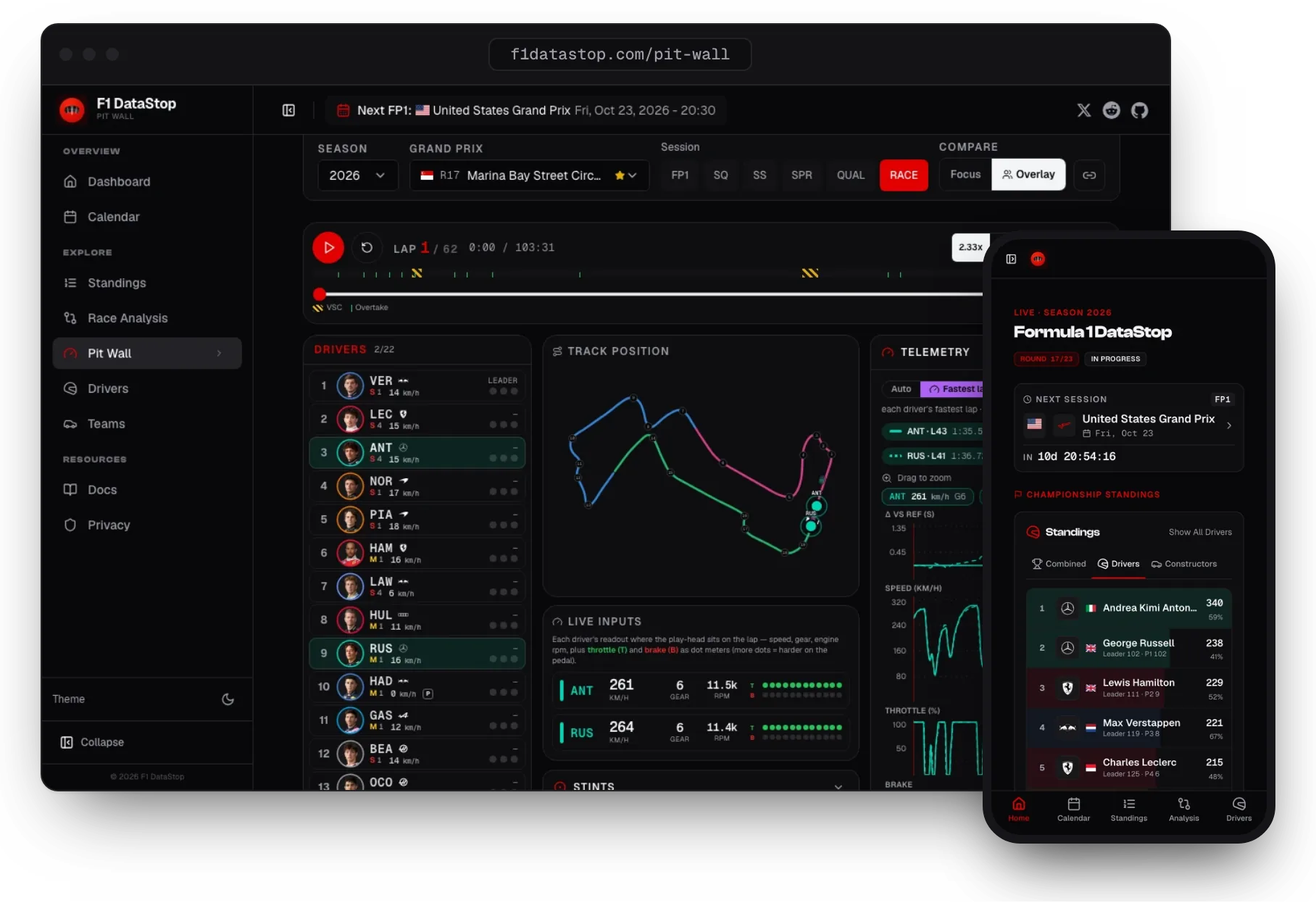
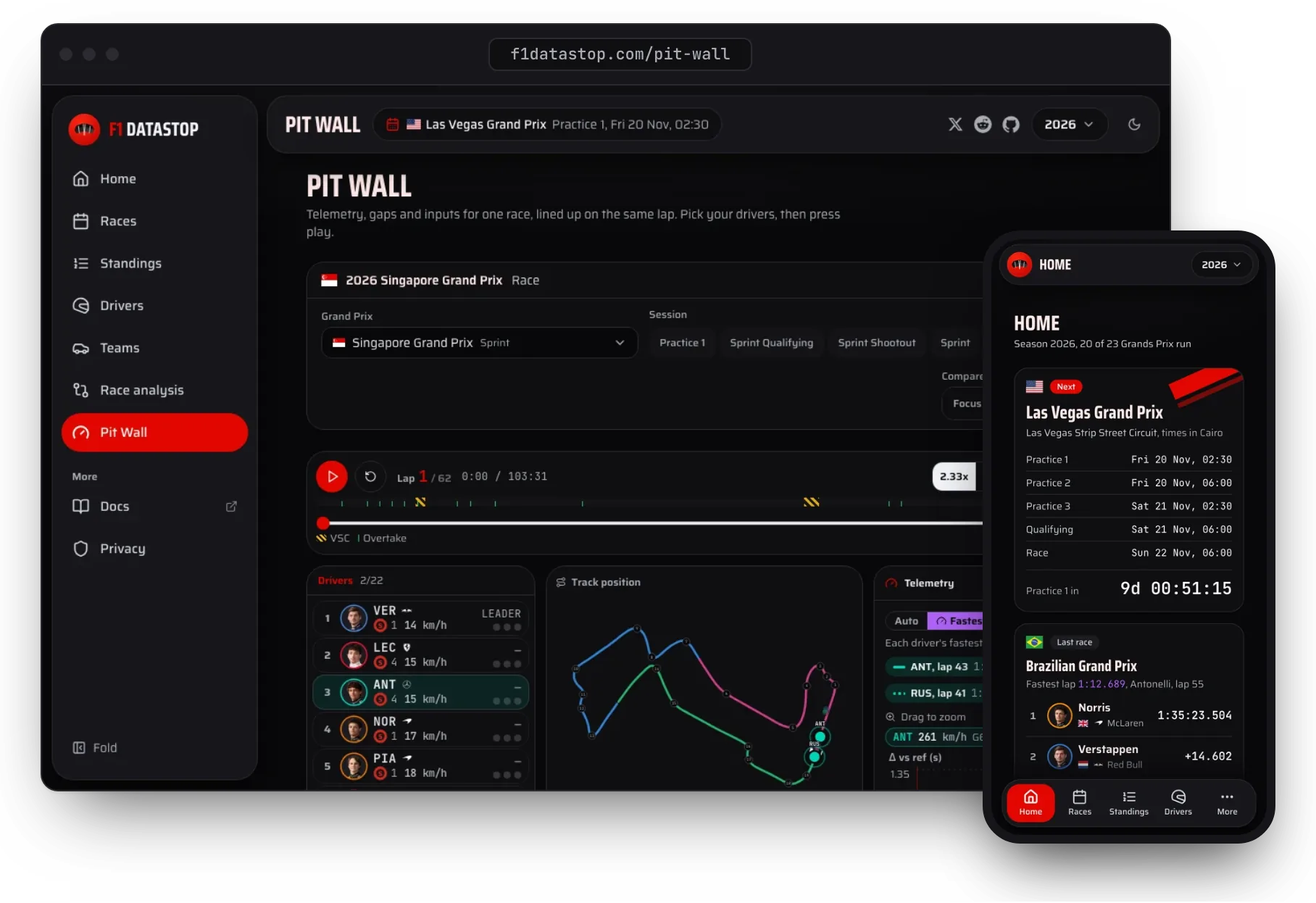
feat(docs): share images, social preview and README hero from the new design
Phase 7 of the design release (docs/design/decisions.md D41): fresh captures
of the Pit Wall and Home render the share card, the GitHub social preview and
the README hero in the new fonts; the badge drops its middle dot; the README
feature list follows the new pages.

diff --git a/docs/design/f1datastop-design-board.html b/docs/design/f1datastop-design-board.html
@@ -435,7 +435,7 @@ h2{font-size:24px;font-weight:700;letter-spacing:-.01em;margin-top:56px}
 <li>Type: keep the direction's pairing, or bring it to a specimen of three like Mondar's.</li>
 </ol>
 </div>
-<div class="panel"><h3>Decisions so far</h3><div class="scroll-x"><table class="dec"><tr><th>D1</th><td><b>Process, copied from Mondar 0.2.</b> Audit first, then a concepts board, then key screens, then the build in phases (tokens and shell, components, charts, pages, brand assets), one PR each. The board is generated from source and never edited by hand. The owner picks direction, logo, name and tagline; nothing is decided for him.</td></tr><tr><th>D2</th><td><b>The audit of 2026-11-10 is the baseline.</b> 12 routes at 320, 375, 768 and 1280 px in dark and light. Headline findings: 97 cut names at 320 px, 64 middle dots in source, gauge bars on 7 list surfaces, 2 native <code>&lt;select&gt;</code>s, no list with URL-backed search and filter, sideways scroll on <code>/standings</code> at 320 px, three different reds and four <code>theme-color</code> values.</td></tr><tr><th>D3</th><td><b>Concepts, round 1:</b> A, Floodlight (a night race: warm asphalt, white light, sodium orange); B, Classification (the timing sheet set like a magazine: paper, navy ink, serif titles, vermilion only on the mark); C, Livery (aubergine-black and blush, a magenta livery that turns into the team&#x27;s colour on its own pages). Each is shown night and day with contrast numbers, its type, a race card, the standings and a lap chart. The owner picks: D10.</td></tr><tr><th>D4</th><td><b>Data colours never move.</b> Team colours from <code>web/src/constants/f1Colors.ts</code>, purple for fastest, green for personal best, tyre compound colours, and the position and status meanings are identical in every direction and theme. The brand colour is for marks, the act colour and the logo; it is never a chart series or a row fill. Every text role holds 4.5:1 on its card in both themes, checked by the board&#x27;s build.</td></tr><tr><th>D5</th><td><b>Type roles.</b> One display face for page and card titles, one UI sans for everything else, one mono for every time, gap, position and points figure, always with tabular figures. Nothing under 12 px on a phone (the audit found 83 to 120 text nodes under 12 px per content page).</td></tr><tr><th>D6</th><td><b>Logo, round 1.</b> Six marks: Apex, Pit box, Stop flag, Pit board, Speed trace, Grid slot, each one 64-unit geometry in <code>logos.py</code> shown at 16, 32 and 180 px and as a lockup, in the colours of each direction. The current roundel is not offered again: at 16 px its strokes vanish and it reads as a red dot. The name stays F1 DataStop unless the owner says otherwise. The owner picks: D11.</td></tr><tr><th>D7</th><td><b>The shell is Mondar PR #41&#x27;s, at every width.</b> A floating header pill; a floating dock whose active tab is an act-filled capsule with the same footprint as the others; one scroll root behind both bars; a floating sidebar and top bar on tablet and desktop; opaque sheets that rise and drag to dismiss; a sliding segmented pill; View Transitions between pages; a 0.97 press. Every surface is solid, with no backdrop blur anywhere. Drawn in phase 2, built in phase 3.</td></tr><tr><th>D8</th><td><b>House rules carried over from Mondar.</b> Phones never cut text to an ellipsis; no middle dots anywhere; no native <code>&lt;select&gt;</code>, date picker, <code>alert</code>, <code>confirm</code> or <code>prompt</code>; no gauge or progress bar on a table or list row, a whole&#x27;s composition is one stacked strip; every list has search, filter, group and pagination in the URL; copy is plain, short and factual.</td></tr><tr><th>D9</th><td><b>Open, for the owner: the Cockpit theme.</b> <code>dark-glass</code> (&quot;Cockpit&quot;) is a third theme built on blur and red glows, used in 41 files. D7 makes every surface solid, so it cannot stay as it is. Options: (a) keep a third theme, made solid in the new materials (a darker, higher-contrast night); (b) fold it into night and move anyone on <code>dark-glass</code> to <code>dark</code>; (c) drop the theme switch to night and day only. Not decided until he answers.</td></tr><tr><th>D10</th><td><b>Open, for the owner: the direction.</b> After round 2 (D12) the three directions share one palette and differ in type and material.</td></tr><tr><th>D11</th><td><b>Logo: Stop flag</b> (owner, 2026-11-10: &quot;good start and idea Stop flag&quot;). A stop octagon carrying the chequered flag, in F1 DataStop red. Round 2 shows it as picked and in three variations (Waving flag, Finish line, Ring); the owner picks the variation. The other five round 1 marks are retired.</td></tr><tr><th>D12</th><td><b>F1 DataStop keeps its red and carbon</b> (owner, 2026-11-10: &quot;f1datastop has been iconic in its red colored and logo, also you copied over kept and mondar colors&quot;). Supersedes D3&#x27;s palettes: every direction uses the Deep Carbon ladder and one red, #E10600, in both themes, with white words on it (5.0:1). Secondary text is brightened (<code>#D2D3DA</code> and <code>#ABACB5</code> on the night card, 12.8 and 8.5:1) so nothing is grey on black. Titles take a faint red tint. One red everywhere, replacing today&#x27;s three.</td></tr><tr><th>D13</th><td><b>What comes over from Mondar and Kept is the experience, not the colours</b> (owner, 2026-11-10: &quot;what i meant is more of its ux of pwa and new webpage and details&quot;). The PWA shell and its details from D7 and D8 carry over; Mondar&#x27;s and Kept&#x27;s palettes, warm stone and tints do not.</td></tr><tr><th>D14</th><td><b>The logo stays the rear wing, made better</b> (owner, 2026-11-10: &quot;don&#x27;t need a revamp of logo but need the existing one better, same idea its the rear wing of a f1 car&quot;). Supersedes D6 and D11: no new mark. Today&#x27;s <code>logo.svg</code> (an F1 rear wing seen from behind on a red disc) is redrawn flat in round 3, with parts thick enough for 16 px: Refined, Bold, Open flap, Square. The owner picks the version.</td></tr><tr><th>D15</th><td><b>A race is its Grand Prix and its flag, never a round code</b> (owner, 2026-11-10: &quot;stress on prix not be R1..R2.. and be flags&quot;). Lists, cards, pickers and headers lead with the country flag and the Grand Prix name (&quot;Las Vegas Grand Prix&quot;); &quot;R21&quot; and &quot;Round 21&quot; go from titles and rows. Flags come from flag-icons (already used through <code>react-country-flag</code>), 4:3, rounded 3 px, with a hairline so white flags hold on white.</td></tr><tr><th>D16</th><td><b>One tyre icon and one tyre colour set</b> (owner, 2026-11-10: &quot;perfected tyres and their icons&quot;). Pirelli-style: the black tyre, the compound&#x27;s band near the rim, the letter in the band&#x27;s colour, the same drawing from 16 to 48 px. Colours are the social cards&#x27; Pirelli set (soft <code>#DA291C</code>, medium <code>#FFD12E</code>, hard <code>#F0F0EC</code>, intermediate <code>#43B02A</code>, wet <code>#2F8CFF</code>), replacing the pit wall&#x27;s separate <code>TYRE_HSL</code>. A stint is one strip summing to the race distance, with its laps in words.</td></tr><tr><th>D17</th><td><b>Direction: Floodlight Livery</b> (owner, 2026-11-10: &quot;i need a mix of floodlight and C, Livery&quot;, &quot;font wise floodlight is much better&quot;). Settles D10. Floodlight&#x27;s type (Saira Condensed titles in capitals, Saira UI, JetBrains Mono figures) and its light from the top of the page; Livery&#x27;s diagonal stripe on the one lead card of a page, red by default and the team&#x27;s colour on a team or driver page; D12&#x27;s red and carbon; cards 20 px round. The stripe never sits on list rows and never carries data.</td></tr><tr><th>D18</th><td><b>The livery stripe carries the page&#x27;s identity</b> (owner, 2026-11-10: &quot;can that change by team color or driver color with number on it and sometimes fits a country flag too?&quot;). On a driver page it is the team colour with the car number; on a team page the team colour with both car numbers; on a Grand Prix the host country&#x27;s flag; elsewhere F1 DataStop red. The number is set in Saira Condensed italic in whichever of white or carbon reads best on the colour. Decoration only: the same facts are in the card&#x27;s text.</td></tr><tr><th>D19</th><td><b>Proposed, waiting for the owner: every name is a link.</b> Drivers, teams, Grands Prix, circuits and sessions, everywhere they appear: rows, cards, charts&#x27; legends, the Pit Wall. From the flow review.</td></tr><tr><th>D20</th><td><b>Proposed, waiting for the owner: a Grand Prix is a page.</b> It replaces the race dialog and Race Analysis, with tabs for Schedule, Results, Laps, Positions, Strategy, Telemetry, Replay, Weather and Radio; the dialog goes. From the flow review.</td></tr><tr><th>D21</th><td><b>Proposed, waiting for the owner: one season, in the URL, kept on every page.</b> Picked in the header pill; Standings, profiles and Home follow it. From the flow review.</td></tr><tr><th>D22</th><td><b>Proposed, waiting for the owner: navigation by the nouns.</b> Dock: Home, Races, Standings, Drivers, More (Teams, Circuits, Pit Wall, Docs). Sidebar: all seven. Search in the header pill finds any driver, team, Grand Prix or circuit. From the flow review.</td></tr><tr><th>D23</th><td><b>Proposed, waiting for the owner: no content behind a dialog without a URL.</b> Sheets and dialogs are for pickers, filters and confirmations. One renderer per thing: results, standings and the Sankey each exist once. From the flow review.</td></tr><tr><th>D24</th><td><b>Proposed, waiting for the owner: entries land on now.</b> Races, a Grand Prix and the Pit Wall open on the next or latest race, never round 1 or an empty state. From the flow review.</td></tr><tr><th>D25</th><td><b>The livery stripe is colour only</b> (owner, 2026-11-10: &quot;the numbers and flag was really bad idea. ignore it. colors only is good&quot;). Supersedes D18: F1 DataStop red on most pages, the team&#x27;s colour on a team or driver page; no car numbers, no flags in the stripe.</td></tr><tr><th>D26</th><td><b>Drivers show their face</b> (owner, 2026-11-10: &quot;why don&#x27;t you show drivers avatars&quot;). Every place a driver is listed (standings, results, team pages, stints, the driver page header) shows the F1 headshot the app already uses (<code>buildF1DriverHeadshotUrl</code> in <code>web/src/constants/f1DriverPortraitMedia.ts</code>), round, ringed in the team colour: 40 px in rows, 28 px in compact rows, 72 px on the driver page. Initials when there is no headshot.</td></tr><tr><th>D27</th><td><b>The connected structure is accepted</b> (owner, 2026-11-10: &quot;Yes, draw screens&quot;, in answer to &quot;OK the connected structure so I can draw the screens?&quot;). D19 to D24 stand as written. Key screens are drawn on it before any build (Mondar&#x27;s D19 process): Home, a Grand Prix, laps and telemetry, Standings, Races, a driver page, and a sheet, at phone and desktop, night and day.</td></tr><tr><th>D28</th><td><b>The logo stays as it is</b> (owner, 2026-11-10: &quot;my logo is much better&quot;). Supersedes D14&#x27;s redraw round: today&#x27;s <code>logo.svg</code>, the rear wing on the red disc, is the mark, unchanged. The screens use it. Phase 7 only exports it to the icon sizes.</td></tr><tr><th>D29</th><td><b>One compact row, one height</b> (owner, 2026-11-10: &quot;this section is not uniform so bloated&quot;, on Home&#x27;s last race and drivers cards). Cards on Home and other summaries use one row: position, a 32 px face, the surname over the team, one figure; every row the same height, nothing wraps to three lines. Full names stay on the full pages and tables.</td></tr><tr><th>D30</th><td><b>The qualifying to race Sankey comes back, and a race opens a quick look first</b> (owner, 2026-11-10: &quot;the qualifying to race sankey is everyone&#x27;s favorite where is it&quot;, &quot;where are the grand prix detailed page.. with pop up&quot;). The Sankey sits on Home under the last race and on the Grand Prix page beside the results; places gained or lost are written beside each finish. Tapping a race anywhere opens a quick look (a sheet on a phone, a dialog on a desktop) with winner, pole, fastest lap, the Sankey and Open Grand Prix. Amends D23: the quick look has its own address (<code>?race=</code>), so Back closes it and a link opens it.</td></tr><tr><th>D31</th><td><b>The Sankey reads qualifying grid, then race</b> (owner, 2026-11-10: &quot;its qualifying grid then race&quot;). Its columns are labelled Qualifying grid and Race, and its title is Qualifying grid to race. Refines D30.</td></tr><tr><th>D32</th><td><b>The Sankey is the app&#x27;s own: Quali, Grid, Race</b> (owner, 2026-11-10: &quot;no its not like that see how its done on f1datastop&quot;). Supersedes D31 and the two-column drawing of D30. As <code>web/src/components/analytics/MuiSankeyChart.tsx</code> draws it: three columns (Quali, Grid, Race), every car, a team-coloured marker at each place, labels &quot;1 VER&quot; on the left and &quot;ANT 1&quot; on the right, and each band coloured by the change between columns: gain green, loss red, hold grey, a retirement dimmed, with the Gain, Loss, Hold legend so colour is never the only cue. The redesign changes only its surface and type.</td></tr><tr><th>D33</th><td><b>A team is never shown without its logo</b> (owner, 2026-11-10: &quot;never show teams without logos too&quot;). Everywhere a team appears (driver rows, results, standings, team rows, the team and driver page headers), its official emblem sits beside its name: the same white <code>logowhite</code> files the app already uses (<code>buildF1TeamLogoUrl</code> in <code>web/src/constants/f1TeamLogoMedia.ts</code>), inverted on light themes as <code>TeamLogo.tsx</code> does, 13 to 16 px in rows and 26 px on a team header. The emblem alone does not name the team (the Mercedes star, the Red Bull bulls), so the name always stays.</td></tr><tr><th>D34</th><td><b>Flags, not country names, under drivers; the winner as a face</b> (owner, 2026-11-10: &quot;don&#x27;t write country names use flags under players&quot;, &quot;instead of Antonelli won we can make it a better linkable avatar&quot;). Under every driver: the nationality flag, then the team emblem and name (D33). Country names go from driver lines and from places that already show a flag (the race card&#x27;s &quot;United States&quot;). A finished race in a list shows its winner&#x27;s face, a link to their page, labelled &quot;Won by ...&quot; for screen readers, instead of the words.</td></tr><tr><th>D35</th><td><b>Only F1 DataStop&#x27;s own logo</b> (owner, 2026-11-10: &quot;remove all the logos from the screens we are using ours only&quot;). The redrawn versions (Refined, Bold, Open flap, Square) leave the board; the logo section shows <code>logo.svg</code> alone. Read as the logo round, not the team emblems D33 requires.</td></tr><tr><th>D36</th><td><b>D35 confirmed: the logo round is gone, team emblems stay</b> (owner, 2026-11-10: &quot;I meant this for F1DataStop, keep team emblems, nothing goes&quot;). F1 DataStop&#x27;s own <code>logo.svg</code> is its only mark. D33 stands: every team shows its emblem beside its name.</td></tr><tr><th>D37</th><td><b>Phase 3 as built: tokens, shell, motion.</b> <code>index.css</code> carries D12&#x27;s red and carbon (new roles <code>raised</code>, <code>ink-2</code>, <code>heading</code>, <code>figure</code>, <code>act</code>, <code>on-act</code>), D17&#x27;s fonts (Saira, Saira Condensed, JetBrains Mono, from Google Fonts; Geist and Clash Display go) and titles in condensed capitals with the heading tint. The shell follows D7 at every width: header pill and dock on a phone (Home, Races, Standings, Drivers, More, with More as a solid panel), a floating sidebar (icon rail to 1023 px, a 232 px column that folds with ⌘\ from 1024 px) and top bar from 768 px, one scroller behind them, a 0.97 press, View Transitions on every nav link with the bars held still, and sheets and dialogs as opaque inset cards. Not in this phase: Circuits in the nav (no index page yet, D22), the season pill and search (D21, D22), and the Cockpit theme, which keeps its own look until D9 is answered.</td></tr><tr><th>D38</th><td><b>Phase 4 as built: components.</b> <code>F1Card</code> is solid, 20 px round, a hairline edge, a 0.97 press instead of a lift, with an optional <code>livery</code> stripe (<code>F1Livery</code>, D17, D25). Tabs and <code>ViewSwitcher</code> are one pill track with a sliding act pill (<code>SlidingPill</code>), and wrap instead of scrolling or truncating (this fixes <code>/standings</code> scrolling sideways at 320 px). Tables have 12 px semibold heads and tighter cells. Empty and error states lose the decorative rings and blur for a solid circle. <code>F1Avatar</code> rings the face in the team colour with no gap (D26). New: <code>TeamName</code> (emblem beside the name, linkable, D33), <code>TyreIcon</code> (D16) and <code>constants/tyres.ts</code>, the one Pirelli set that the Pit Wall, the race player and the race-control board now all read; a test holds it equal to the social cards&#x27;. Pages adopt these in phase 6.</td></tr><tr><th>D39</th><td><b>Phase 5 as built: charts.</b> <code>chartTheme</code> moves to the release tokens: a solid raised tooltip, 14 px round, sentence-case labels in Saira, a neutral cursor in ink-2 (the brand red is never a series or the cursor, D4), and gain, loss and hold from their own tokens, which the Sankey (D32) now uses. Series colours are unchanged: team colours from <code>f1Colors.ts</code>, purple for fastest. The season Sankey&#x27;s two native <code>&lt;select&gt;</code>s become the app&#x27;s own <code>Select</code>.</td></tr><tr><th>D40</th><td><b>Phase 6 as built: pages on the connected structure.</b> Every driver, team, Grand Prix and circuit name links through <code>web/src/lib/links.ts</code> (D19). A race opens the quick look by its address (<code>?race=</code>), with results first for a finished race and Open Grand Prix (D30). <code>/race-analysis</code> is the Grand Prix page: it opens on the latest finished race, leads with the flag and the Grand Prix name, never &quot;Round N&quot;, and links to the Pit Wall, which opens on the latest race and links back (D20, D24). One season in <code>?season=</code>, picked in the bars and carried by nav links (D21). Drivers show face, flag and team with its emblem; teams their emblem (D26, D33, D34); summary cards use one compact row (D29); lead cards carry the livery stripe, in the team colour on team and driver pages (D25). Drivers, Teams and Races lists have URL-backed search, filters, grouping and pages (D8). No gauge bars on rows, no middle dots, no truncation, nothing under 12 px, no native selects. Home keeps both Sankeys (D32). Removed with the old layouts: the home cards for qualifying, fastest pit stop and season overview, the calendar&#x27;s double-header legend and circuit drawer. Not done: any-lap telemetry on the Grand Prix page (the Pit Wall has it); the Pit Wall&#x27;s dense driver boards keep tap-to-select instead of links.</td></tr></table></div></div>
+<div class="panel"><h3>Decisions so far</h3><div class="scroll-x"><table class="dec"><tr><th>D1</th><td><b>Process, copied from Mondar 0.2.</b> Audit first, then a concepts board, then key screens, then the build in phases (tokens and shell, components, charts, pages, brand assets), one PR each. The board is generated from source and never edited by hand. The owner picks direction, logo, name and tagline; nothing is decided for him.</td></tr><tr><th>D2</th><td><b>The audit of 2026-11-10 is the baseline.</b> 12 routes at 320, 375, 768 and 1280 px in dark and light. Headline findings: 97 cut names at 320 px, 64 middle dots in source, gauge bars on 7 list surfaces, 2 native <code>&lt;select&gt;</code>s, no list with URL-backed search and filter, sideways scroll on <code>/standings</code> at 320 px, three different reds and four <code>theme-color</code> values.</td></tr><tr><th>D3</th><td><b>Concepts, round 1:</b> A, Floodlight (a night race: warm asphalt, white light, sodium orange); B, Classification (the timing sheet set like a magazine: paper, navy ink, serif titles, vermilion only on the mark); C, Livery (aubergine-black and blush, a magenta livery that turns into the team&#x27;s colour on its own pages). Each is shown night and day with contrast numbers, its type, a race card, the standings and a lap chart. The owner picks: D10.</td></tr><tr><th>D4</th><td><b>Data colours never move.</b> Team colours from <code>web/src/constants/f1Colors.ts</code>, purple for fastest, green for personal best, tyre compound colours, and the position and status meanings are identical in every direction and theme. The brand colour is for marks, the act colour and the logo; it is never a chart series or a row fill. Every text role holds 4.5:1 on its card in both themes, checked by the board&#x27;s build.</td></tr><tr><th>D5</th><td><b>Type roles.</b> One display face for page and card titles, one UI sans for everything else, one mono for every time, gap, position and points figure, always with tabular figures. Nothing under 12 px on a phone (the audit found 83 to 120 text nodes under 12 px per content page).</td></tr><tr><th>D6</th><td><b>Logo, round 1.</b> Six marks: Apex, Pit box, Stop flag, Pit board, Speed trace, Grid slot, each one 64-unit geometry in <code>logos.py</code> shown at 16, 32 and 180 px and as a lockup, in the colours of each direction. The current roundel is not offered again: at 16 px its strokes vanish and it reads as a red dot. The name stays F1 DataStop unless the owner says otherwise. The owner picks: D11.</td></tr><tr><th>D7</th><td><b>The shell is Mondar PR #41&#x27;s, at every width.</b> A floating header pill; a floating dock whose active tab is an act-filled capsule with the same footprint as the others; one scroll root behind both bars; a floating sidebar and top bar on tablet and desktop; opaque sheets that rise and drag to dismiss; a sliding segmented pill; View Transitions between pages; a 0.97 press. Every surface is solid, with no backdrop blur anywhere. Drawn in phase 2, built in phase 3.</td></tr><tr><th>D8</th><td><b>House rules carried over from Mondar.</b> Phones never cut text to an ellipsis; no middle dots anywhere; no native <code>&lt;select&gt;</code>, date picker, <code>alert</code>, <code>confirm</code> or <code>prompt</code>; no gauge or progress bar on a table or list row, a whole&#x27;s composition is one stacked strip; every list has search, filter, group and pagination in the URL; copy is plain, short and factual.</td></tr><tr><th>D9</th><td><b>Open, for the owner: the Cockpit theme.</b> <code>dark-glass</code> (&quot;Cockpit&quot;) is a third theme built on blur and red glows, used in 41 files. D7 makes every surface solid, so it cannot stay as it is. Options: (a) keep a third theme, made solid in the new materials (a darker, higher-contrast night); (b) fold it into night and move anyone on <code>dark-glass</code> to <code>dark</code>; (c) drop the theme switch to night and day only. Not decided until he answers.</td></tr><tr><th>D10</th><td><b>Open, for the owner: the direction.</b> After round 2 (D12) the three directions share one palette and differ in type and material.</td></tr><tr><th>D11</th><td><b>Logo: Stop flag</b> (owner, 2026-11-10: &quot;good start and idea Stop flag&quot;). A stop octagon carrying the chequered flag, in F1 DataStop red. Round 2 shows it as picked and in three variations (Waving flag, Finish line, Ring); the owner picks the variation. The other five round 1 marks are retired.</td></tr><tr><th>D12</th><td><b>F1 DataStop keeps its red and carbon</b> (owner, 2026-11-10: &quot;f1datastop has been iconic in its red colored and logo, also you copied over kept and mondar colors&quot;). Supersedes D3&#x27;s palettes: every direction uses the Deep Carbon ladder and one red, #E10600, in both themes, with white words on it (5.0:1). Secondary text is brightened (<code>#D2D3DA</code> and <code>#ABACB5</code> on the night card, 12.8 and 8.5:1) so nothing is grey on black. Titles take a faint red tint. One red everywhere, replacing today&#x27;s three.</td></tr><tr><th>D13</th><td><b>What comes over from Mondar and Kept is the experience, not the colours</b> (owner, 2026-11-10: &quot;what i meant is more of its ux of pwa and new webpage and details&quot;). The PWA shell and its details from D7 and D8 carry over; Mondar&#x27;s and Kept&#x27;s palettes, warm stone and tints do not.</td></tr><tr><th>D14</th><td><b>The logo stays the rear wing, made better</b> (owner, 2026-11-10: &quot;don&#x27;t need a revamp of logo but need the existing one better, same idea its the rear wing of a f1 car&quot;). Supersedes D6 and D11: no new mark. Today&#x27;s <code>logo.svg</code> (an F1 rear wing seen from behind on a red disc) is redrawn flat in round 3, with parts thick enough for 16 px: Refined, Bold, Open flap, Square. The owner picks the version.</td></tr><tr><th>D15</th><td><b>A race is its Grand Prix and its flag, never a round code</b> (owner, 2026-11-10: &quot;stress on prix not be R1..R2.. and be flags&quot;). Lists, cards, pickers and headers lead with the country flag and the Grand Prix name (&quot;Las Vegas Grand Prix&quot;); &quot;R21&quot; and &quot;Round 21&quot; go from titles and rows. Flags come from flag-icons (already used through <code>react-country-flag</code>), 4:3, rounded 3 px, with a hairline so white flags hold on white.</td></tr><tr><th>D16</th><td><b>One tyre icon and one tyre colour set</b> (owner, 2026-11-10: &quot;perfected tyres and their icons&quot;). Pirelli-style: the black tyre, the compound&#x27;s band near the rim, the letter in the band&#x27;s colour, the same drawing from 16 to 48 px. Colours are the social cards&#x27; Pirelli set (soft <code>#DA291C</code>, medium <code>#FFD12E</code>, hard <code>#F0F0EC</code>, intermediate <code>#43B02A</code>, wet <code>#2F8CFF</code>), replacing the pit wall&#x27;s separate <code>TYRE_HSL</code>. A stint is one strip summing to the race distance, with its laps in words.</td></tr><tr><th>D17</th><td><b>Direction: Floodlight Livery</b> (owner, 2026-11-10: &quot;i need a mix of floodlight and C, Livery&quot;, &quot;font wise floodlight is much better&quot;). Settles D10. Floodlight&#x27;s type (Saira Condensed titles in capitals, Saira UI, JetBrains Mono figures) and its light from the top of the page; Livery&#x27;s diagonal stripe on the one lead card of a page, red by default and the team&#x27;s colour on a team or driver page; D12&#x27;s red and carbon; cards 20 px round. The stripe never sits on list rows and never carries data.</td></tr><tr><th>D18</th><td><b>The livery stripe carries the page&#x27;s identity</b> (owner, 2026-11-10: &quot;can that change by team color or driver color with number on it and sometimes fits a country flag too?&quot;). On a driver page it is the team colour with the car number; on a team page the team colour with both car numbers; on a Grand Prix the host country&#x27;s flag; elsewhere F1 DataStop red. The number is set in Saira Condensed italic in whichever of white or carbon reads best on the colour. Decoration only: the same facts are in the card&#x27;s text.</td></tr><tr><th>D19</th><td><b>Proposed, waiting for the owner: every name is a link.</b> Drivers, teams, Grands Prix, circuits and sessions, everywhere they appear: rows, cards, charts&#x27; legends, the Pit Wall. From the flow review.</td></tr><tr><th>D20</th><td><b>Proposed, waiting for the owner: a Grand Prix is a page.</b> It replaces the race dialog and Race Analysis, with tabs for Schedule, Results, Laps, Positions, Strategy, Telemetry, Replay, Weather and Radio; the dialog goes. From the flow review.</td></tr><tr><th>D21</th><td><b>Proposed, waiting for the owner: one season, in the URL, kept on every page.</b> Picked in the header pill; Standings, profiles and Home follow it. From the flow review.</td></tr><tr><th>D22</th><td><b>Proposed, waiting for the owner: navigation by the nouns.</b> Dock: Home, Races, Standings, Drivers, More (Teams, Circuits, Pit Wall, Docs). Sidebar: all seven. Search in the header pill finds any driver, team, Grand Prix or circuit. From the flow review.</td></tr><tr><th>D23</th><td><b>Proposed, waiting for the owner: no content behind a dialog without a URL.</b> Sheets and dialogs are for pickers, filters and confirmations. One renderer per thing: results, standings and the Sankey each exist once. From the flow review.</td></tr><tr><th>D24</th><td><b>Proposed, waiting for the owner: entries land on now.</b> Races, a Grand Prix and the Pit Wall open on the next or latest race, never round 1 or an empty state. From the flow review.</td></tr><tr><th>D25</th><td><b>The livery stripe is colour only</b> (owner, 2026-11-10: &quot;the numbers and flag was really bad idea. ignore it. colors only is good&quot;). Supersedes D18: F1 DataStop red on most pages, the team&#x27;s colour on a team or driver page; no car numbers, no flags in the stripe.</td></tr><tr><th>D26</th><td><b>Drivers show their face</b> (owner, 2026-11-10: &quot;why don&#x27;t you show drivers avatars&quot;). Every place a driver is listed (standings, results, team pages, stints, the driver page header) shows the F1 headshot the app already uses (<code>buildF1DriverHeadshotUrl</code> in <code>web/src/constants/f1DriverPortraitMedia.ts</code>), round, ringed in the team colour: 40 px in rows, 28 px in compact rows, 72 px on the driver page. Initials when there is no headshot.</td></tr><tr><th>D27</th><td><b>The connected structure is accepted</b> (owner, 2026-11-10: &quot;Yes, draw screens&quot;, in answer to &quot;OK the connected structure so I can draw the screens?&quot;). D19 to D24 stand as written. Key screens are drawn on it before any build (Mondar&#x27;s D19 process): Home, a Grand Prix, laps and telemetry, Standings, Races, a driver page, and a sheet, at phone and desktop, night and day.</td></tr><tr><th>D28</th><td><b>The logo stays as it is</b> (owner, 2026-11-10: &quot;my logo is much better&quot;). Supersedes D14&#x27;s redraw round: today&#x27;s <code>logo.svg</code>, the rear wing on the red disc, is the mark, unchanged. The screens use it. Phase 7 only exports it to the icon sizes.</td></tr><tr><th>D29</th><td><b>One compact row, one height</b> (owner, 2026-11-10: &quot;this section is not uniform so bloated&quot;, on Home&#x27;s last race and drivers cards). Cards on Home and other summaries use one row: position, a 32 px face, the surname over the team, one figure; every row the same height, nothing wraps to three lines. Full names stay on the full pages and tables.</td></tr><tr><th>D30</th><td><b>The qualifying to race Sankey comes back, and a race opens a quick look first</b> (owner, 2026-11-10: &quot;the qualifying to race sankey is everyone&#x27;s favorite where is it&quot;, &quot;where are the grand prix detailed page.. with pop up&quot;). The Sankey sits on Home under the last race and on the Grand Prix page beside the results; places gained or lost are written beside each finish. Tapping a race anywhere opens a quick look (a sheet on a phone, a dialog on a desktop) with winner, pole, fastest lap, the Sankey and Open Grand Prix. Amends D23: the quick look has its own address (<code>?race=</code>), so Back closes it and a link opens it.</td></tr><tr><th>D31</th><td><b>The Sankey reads qualifying grid, then race</b> (owner, 2026-11-10: &quot;its qualifying grid then race&quot;). Its columns are labelled Qualifying grid and Race, and its title is Qualifying grid to race. Refines D30.</td></tr><tr><th>D32</th><td><b>The Sankey is the app&#x27;s own: Quali, Grid, Race</b> (owner, 2026-11-10: &quot;no its not like that see how its done on f1datastop&quot;). Supersedes D31 and the two-column drawing of D30. As <code>web/src/components/analytics/MuiSankeyChart.tsx</code> draws it: three columns (Quali, Grid, Race), every car, a team-coloured marker at each place, labels &quot;1 VER&quot; on the left and &quot;ANT 1&quot; on the right, and each band coloured by the change between columns: gain green, loss red, hold grey, a retirement dimmed, with the Gain, Loss, Hold legend so colour is never the only cue. The redesign changes only its surface and type.</td></tr><tr><th>D33</th><td><b>A team is never shown without its logo</b> (owner, 2026-11-10: &quot;never show teams without logos too&quot;). Everywhere a team appears (driver rows, results, standings, team rows, the team and driver page headers), its official emblem sits beside its name: the same white <code>logowhite</code> files the app already uses (<code>buildF1TeamLogoUrl</code> in <code>web/src/constants/f1TeamLogoMedia.ts</code>), inverted on light themes as <code>TeamLogo.tsx</code> does, 13 to 16 px in rows and 26 px on a team header. The emblem alone does not name the team (the Mercedes star, the Red Bull bulls), so the name always stays.</td></tr><tr><th>D34</th><td><b>Flags, not country names, under drivers; the winner as a face</b> (owner, 2026-11-10: &quot;don&#x27;t write country names use flags under players&quot;, &quot;instead of Antonelli won we can make it a better linkable avatar&quot;). Under every driver: the nationality flag, then the team emblem and name (D33). Country names go from driver lines and from places that already show a flag (the race card&#x27;s &quot;United States&quot;). A finished race in a list shows its winner&#x27;s face, a link to their page, labelled &quot;Won by ...&quot; for screen readers, instead of the words.</td></tr><tr><th>D35</th><td><b>Only F1 DataStop&#x27;s own logo</b> (owner, 2026-11-10: &quot;remove all the logos from the screens we are using ours only&quot;). The redrawn versions (Refined, Bold, Open flap, Square) leave the board; the logo section shows <code>logo.svg</code> alone. Read as the logo round, not the team emblems D33 requires.</td></tr><tr><th>D36</th><td><b>D35 confirmed: the logo round is gone, team emblems stay</b> (owner, 2026-11-10: &quot;I meant this for F1DataStop, keep team emblems, nothing goes&quot;). F1 DataStop&#x27;s own <code>logo.svg</code> is its only mark. D33 stands: every team shows its emblem beside its name.</td></tr><tr><th>D37</th><td><b>Phase 3 as built: tokens, shell, motion.</b> <code>index.css</code> carries D12&#x27;s red and carbon (new roles <code>raised</code>, <code>ink-2</code>, <code>heading</code>, <code>figure</code>, <code>act</code>, <code>on-act</code>), D17&#x27;s fonts (Saira, Saira Condensed, JetBrains Mono, from Google Fonts; Geist and Clash Display go) and titles in condensed capitals with the heading tint. The shell follows D7 at every width: header pill and dock on a phone (Home, Races, Standings, Drivers, More, with More as a solid panel), a floating sidebar (icon rail to 1023 px, a 232 px column that folds with ⌘\ from 1024 px) and top bar from 768 px, one scroller behind them, a 0.97 press, View Transitions on every nav link with the bars held still, and sheets and dialogs as opaque inset cards. Not in this phase: Circuits in the nav (no index page yet, D22), the season pill and search (D21, D22), and the Cockpit theme, which keeps its own look until D9 is answered.</td></tr><tr><th>D38</th><td><b>Phase 4 as built: components.</b> <code>F1Card</code> is solid, 20 px round, a hairline edge, a 0.97 press instead of a lift, with an optional <code>livery</code> stripe (<code>F1Livery</code>, D17, D25). Tabs and <code>ViewSwitcher</code> are one pill track with a sliding act pill (<code>SlidingPill</code>), and wrap instead of scrolling or truncating (this fixes <code>/standings</code> scrolling sideways at 320 px). Tables have 12 px semibold heads and tighter cells. Empty and error states lose the decorative rings and blur for a solid circle. <code>F1Avatar</code> rings the face in the team colour with no gap (D26). New: <code>TeamName</code> (emblem beside the name, linkable, D33), <code>TyreIcon</code> (D16) and <code>constants/tyres.ts</code>, the one Pirelli set that the Pit Wall, the race player and the race-control board now all read; a test holds it equal to the social cards&#x27;. Pages adopt these in phase 6.</td></tr><tr><th>D39</th><td><b>Phase 5 as built: charts.</b> <code>chartTheme</code> moves to the release tokens: a solid raised tooltip, 14 px round, sentence-case labels in Saira, a neutral cursor in ink-2 (the brand red is never a series or the cursor, D4), and gain, loss and hold from their own tokens, which the Sankey (D32) now uses. Series colours are unchanged: team colours from <code>f1Colors.ts</code>, purple for fastest. The season Sankey&#x27;s two native <code>&lt;select&gt;</code>s become the app&#x27;s own <code>Select</code>.</td></tr><tr><th>D40</th><td><b>Phase 6 as built: pages on the connected structure.</b> Every driver, team, Grand Prix and circuit name links through <code>web/src/lib/links.ts</code> (D19). A race opens the quick look by its address (<code>?race=</code>), with results first for a finished race and Open Grand Prix (D30). <code>/race-analysis</code> is the Grand Prix page: it opens on the latest finished race, leads with the flag and the Grand Prix name, never &quot;Round N&quot;, and links to the Pit Wall, which opens on the latest race and links back (D20, D24). One season in <code>?season=</code>, picked in the bars and carried by nav links (D21). Drivers show face, flag and team with its emblem; teams their emblem (D26, D33, D34); summary cards use one compact row (D29); lead cards carry the livery stripe, in the team colour on team and driver pages (D25). Drivers, Teams and Races lists have URL-backed search, filters, grouping and pages (D8). No gauge bars on rows, no middle dots, no truncation, nothing under 12 px, no native selects. Home keeps both Sankeys (D32). Removed with the old layouts: the home cards for qualifying, fastest pit stop and season overview, the calendar&#x27;s double-header legend and circuit drawer. Not done: any-lap telemetry on the Grand Prix page (the Pit Wall has it); the Pit Wall&#x27;s dense driver boards keep tap-to-select instead of links.</td></tr><tr><th>D41</th><td><b>Phase 7 as built: brand assets.</b> <code>logo.svg</code> and every icon size stay as they are (D28); the manifest takes the carbon <code>theme_color</code> and background. The docs site loads Saira, Saira Condensed and JetBrains Mono with the carbon and red tokens and a red current-page capsule. The share image, GitHub social preview and README hero are re-rendered from new captures of the app (the Pit Wall on desktop, Home on a phone) in the new fonts, and the badge reads &quot;Free and open source&quot; (no middle dot). The README&#x27;s feature list follows the new pages. The old root design board and its unused check script are retired for <code>docs/design/</code>.</td></tr></table></div></div>
 </div>
 <script>
 (function(){

diff --git a/docs/design/decisions.md b/docs/design/decisions.md
@@ -47,3 +47,4 @@ edited away. Audit: [`audits/ui-2026-11-10.md`](audits/ui-2026-11-10.md). Board:
 | D38 | **Phase 4 as built: components.** `F1Card` is solid, 20 px round, a hairline edge, a 0.97 press instead of a lift, with an optional `livery` stripe (`F1Livery`, D17, D25). Tabs and `ViewSwitcher` are one pill track with a sliding act pill (`SlidingPill`), and wrap instead of scrolling or truncating (this fixes `/standings` scrolling sideways at 320 px). Tables have 12 px semibold heads and tighter cells. Empty and error states lose the decorative rings and blur for a solid circle. `F1Avatar` rings the face in the team colour with no gap (D26). New: `TeamName` (emblem beside the name, linkable, D33), `TyreIcon` (D16) and `constants/tyres.ts`, the one Pirelli set that the Pit Wall, the race player and the race-control board now all read; a test holds it equal to the social cards'. Pages adopt these in phase 6. | `web/src/components/f1/`, `web/src/components/ui/`, `web/src/constants/tyres.ts` |
 | D39 | **Phase 5 as built: charts.** `chartTheme` moves to the release tokens: a solid raised tooltip, 14 px round, sentence-case labels in Saira, a neutral cursor in ink-2 (the brand red is never a series or the cursor, D4), and gain, loss and hold from their own tokens, which the Sankey (D32) now uses. Series colours are unchanged: team colours from `f1Colors.ts`, purple for fastest. The season Sankey's two native `<select>`s become the app's own `Select`. | `web/src/lib/chartTheme.tsx`, `web/src/components/analytics/` |
 | D40 | **Phase 6 as built: pages on the connected structure.** Every driver, team, Grand Prix and circuit name links through `web/src/lib/links.ts` (D19). A race opens the quick look by its address (`?race=`), with results first for a finished race and Open Grand Prix (D30). `/race-analysis` is the Grand Prix page: it opens on the latest finished race, leads with the flag and the Grand Prix name, never "Round N", and links to the Pit Wall, which opens on the latest race and links back (D20, D24). One season in `?season=`, picked in the bars and carried by nav links (D21). Drivers show face, flag and team with its emblem; teams their emblem (D26, D33, D34); summary cards use one compact row (D29); lead cards carry the livery stripe, in the team colour on team and driver pages (D25). Drivers, Teams and Races lists have URL-backed search, filters, grouping and pages (D8). No gauge bars on rows, no middle dots, no truncation, nothing under 12 px, no native selects. Home keeps both Sankeys (D32). Removed with the old layouts: the home cards for qualifying, fastest pit stop and season overview, the calendar's double-header legend and circuit drawer. Not done: any-lap telemetry on the Grand Prix page (the Pit Wall has it); the Pit Wall's dense driver boards keep tap-to-select instead of links. | `web/src/pages/`, `web/src/components/` |
+| D41 | **Phase 7 as built: brand assets.** `logo.svg` and every icon size stay as they are (D28); the manifest takes the carbon `theme_color` and background. The docs site loads Saira, Saira Condensed and JetBrains Mono with the carbon and red tokens and a red current-page capsule. The share image, GitHub social preview and README hero are re-rendered from new captures of the app (the Pit Wall on desktop, Home on a phone) in the new fonts, and the badge reads "Free and open source" (no middle dot). The README's feature list follows the new pages. The old root design board and its unused check script are retired for `docs/design/`. | `web/public/`, `docs/`, `scripts/render-social-preview.mjs`, `README.md` |

diff --git a/README.md b/README.md
@@ -19,17 +19,17 @@
   </picture>
 </p>
 
-**Live site:** https://www.f1datastop.com · **Documentation:** https://docs.f1datastop.com
+**Live site:** https://www.f1datastop.com, **documentation:** https://docs.f1datastop.com
 
 Every page works without an account. All data appears after a session ends; there is no live timing.
 
 ## Features
 
-- **Dashboard**: standings, last race, countdown to the next race, season overview
-- **Analytics**: lap times, position changes, qualifying, pit stops, year comparisons
-- **Race calendar**: list, grid and 3D globe views
-- **Deep Dive**: telemetry charts and race replays
-- **Drivers and constructors**: profiles with team colours
+- **Home**: the next Grand Prix with every session in your time, the last race with its podium, both standings and the qualifying, grid and race Sankey
+- **Grand Prix pages**: results, lap times, positions, qualifying, pit stops, telemetry, replay, weather and team radio for every race, with a quick look from anywhere
+- **Pit Wall**: any lap of any driver, side by side
+- **Races**: every Grand Prix of a season, searchable, in list and grid views
+- **Drivers and teams**: profiles, season results and head to head, every name a link
 - **Embeddable widgets**: standings tables for your own site
 
 ## Quick start
